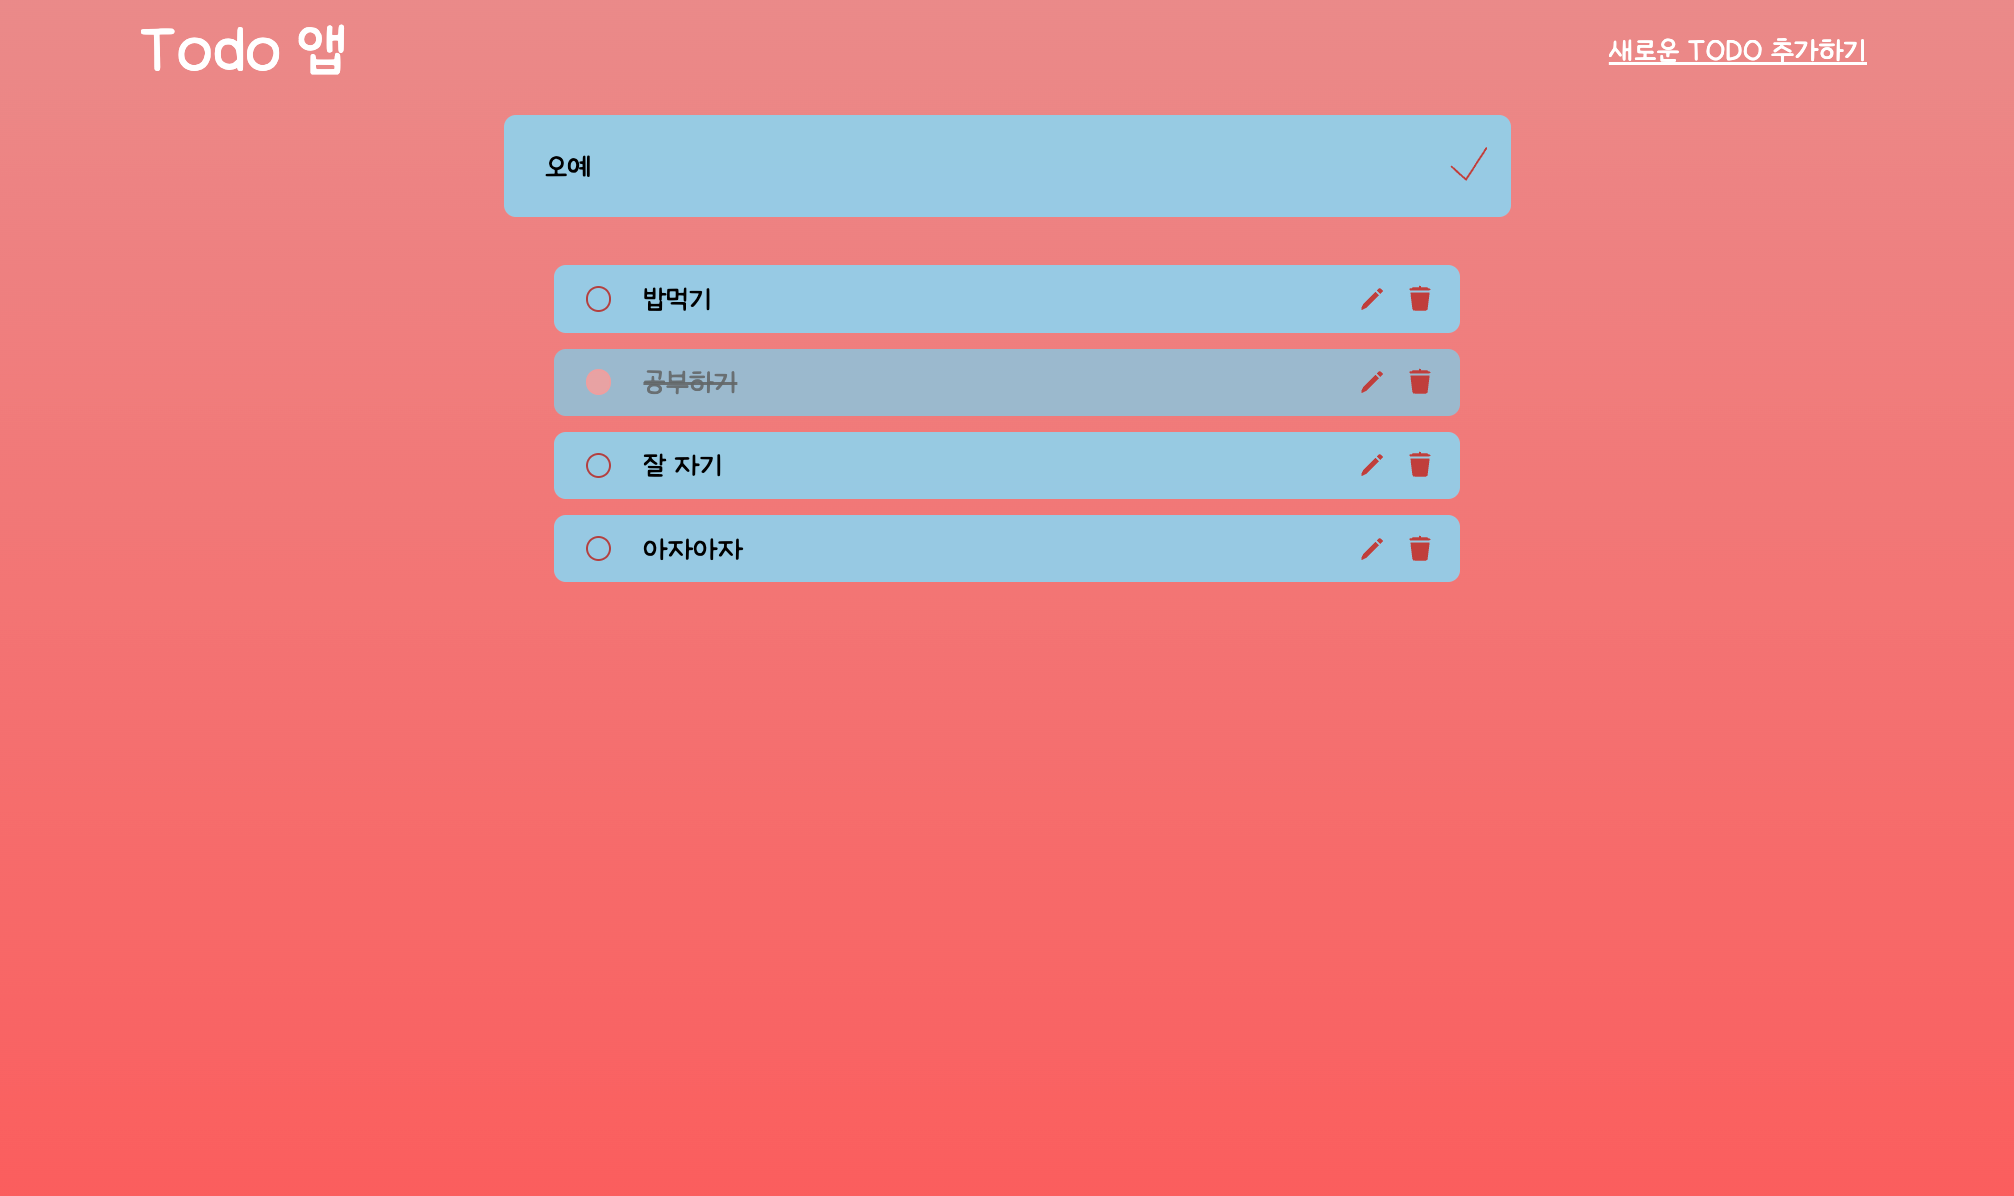
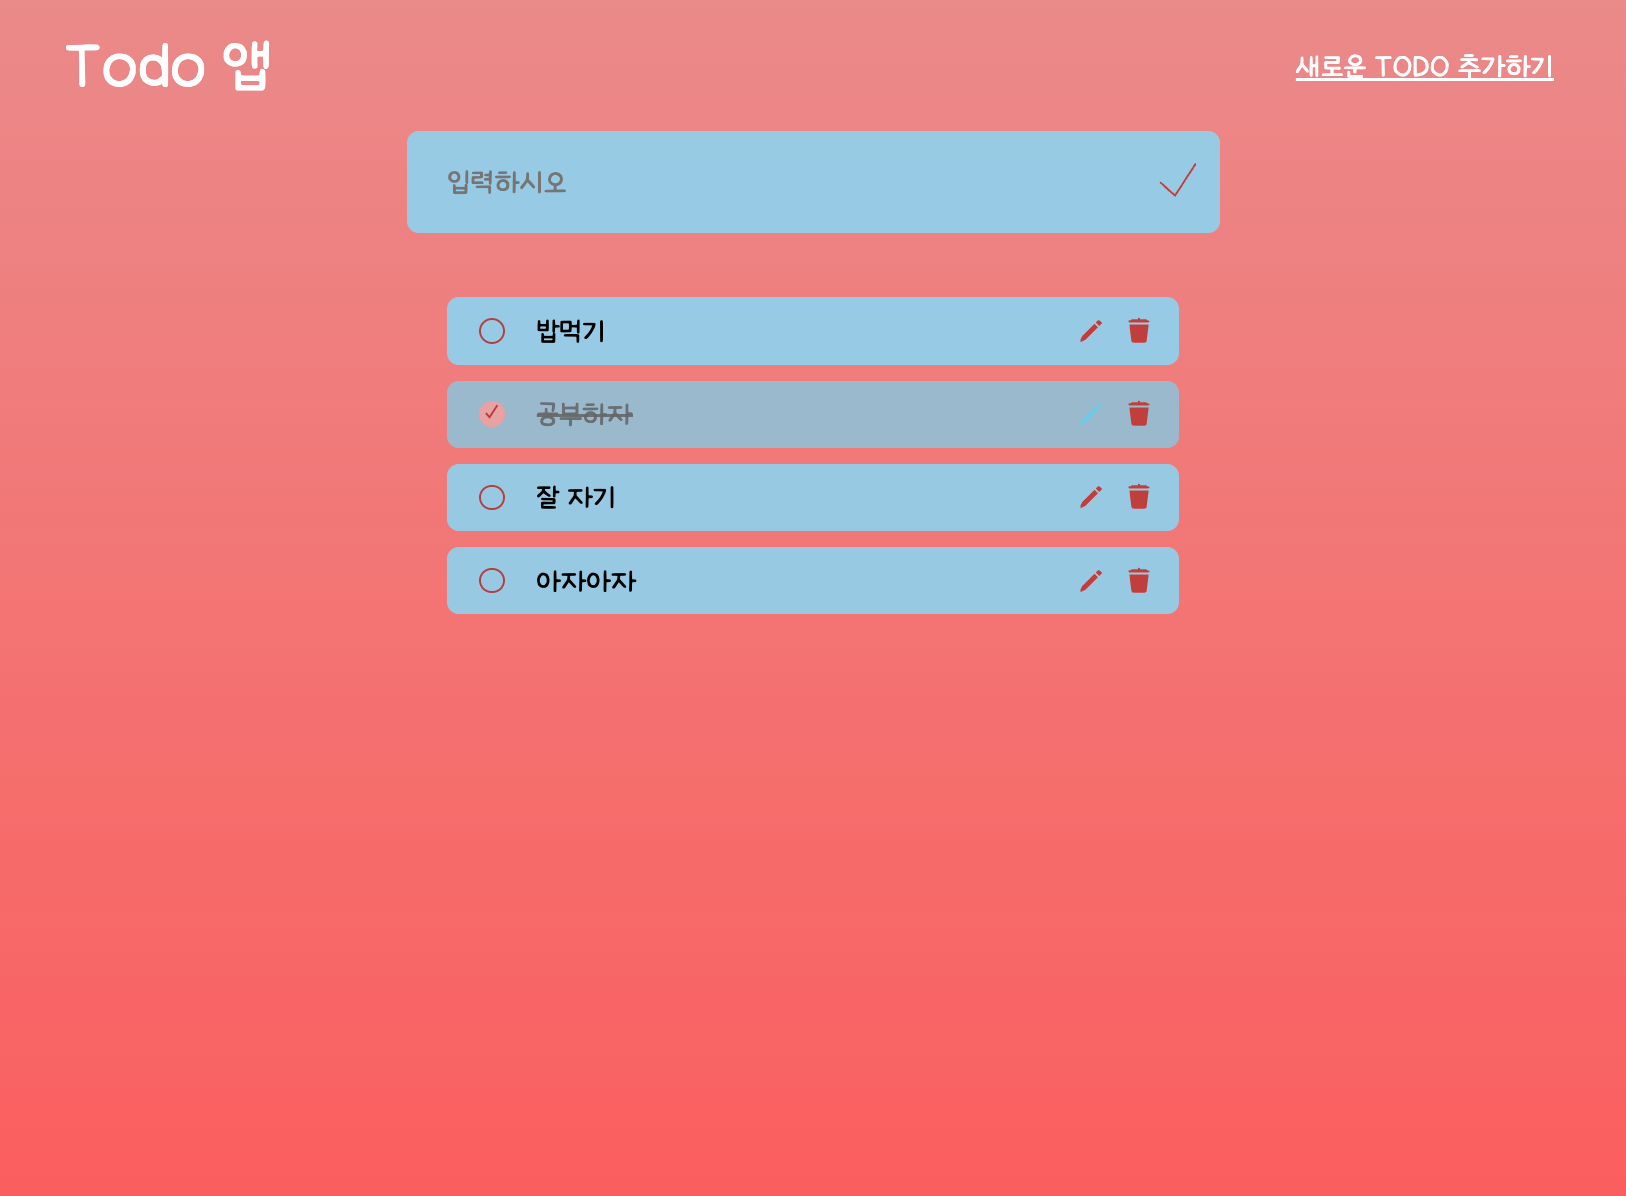
PBL-2, todolist, 약 2일 과제, localStorage 사용해 입력, 수정, 삭제 기능 구현 //이미지 수정 because its MIME type ('text/html') is not executable, and strict MIME type checking is enabled. > 오류로 html <script> 수정

Changed region(s): [[0.246, 0.0928, 0.7688, 0.5259], [0.0308, 0.0, 0.1845, 0.0928], [0.7995, 0.0309, 0.9533, 0.0928]]

diff --git a/PBL-2/styles/main.css b/PBL-2/styles/main.css
@@ -6,6 +6,7 @@ main section #mainTodoList{
     flex-direction: column;
     align-items: center;
     width: 50lvw;
+    max-width: 800px;
     gap: .4rem;
     padding: 0.3rem 0.3rem;
     background-color: var(--list-background);
@@ -187,16 +188,7 @@ before로 checkbox 안 ✓ 표시 나타나게 */
 @media (max-width:400px) {
 
     main section#mainTodoList{
-        width: 50lvw;
+        width: 70lvw;
      }
 }
 
-@media (min-width: 900px) {
-
-    main section#mainTodoList{
-        display: flex;
-        flex-direction: column;
-        align-items: center;
-        width: 800px;
-     }
-}

diff --git a/PBL-2/index.html b/PBL-2/index.html
@@ -49,7 +49,7 @@
             </ul>
         </section>
     </main>
-    <script type="text/javascript" src="/main.js"></script>
+    <script src="main.js"></script>
 </body>
 </html>
 
